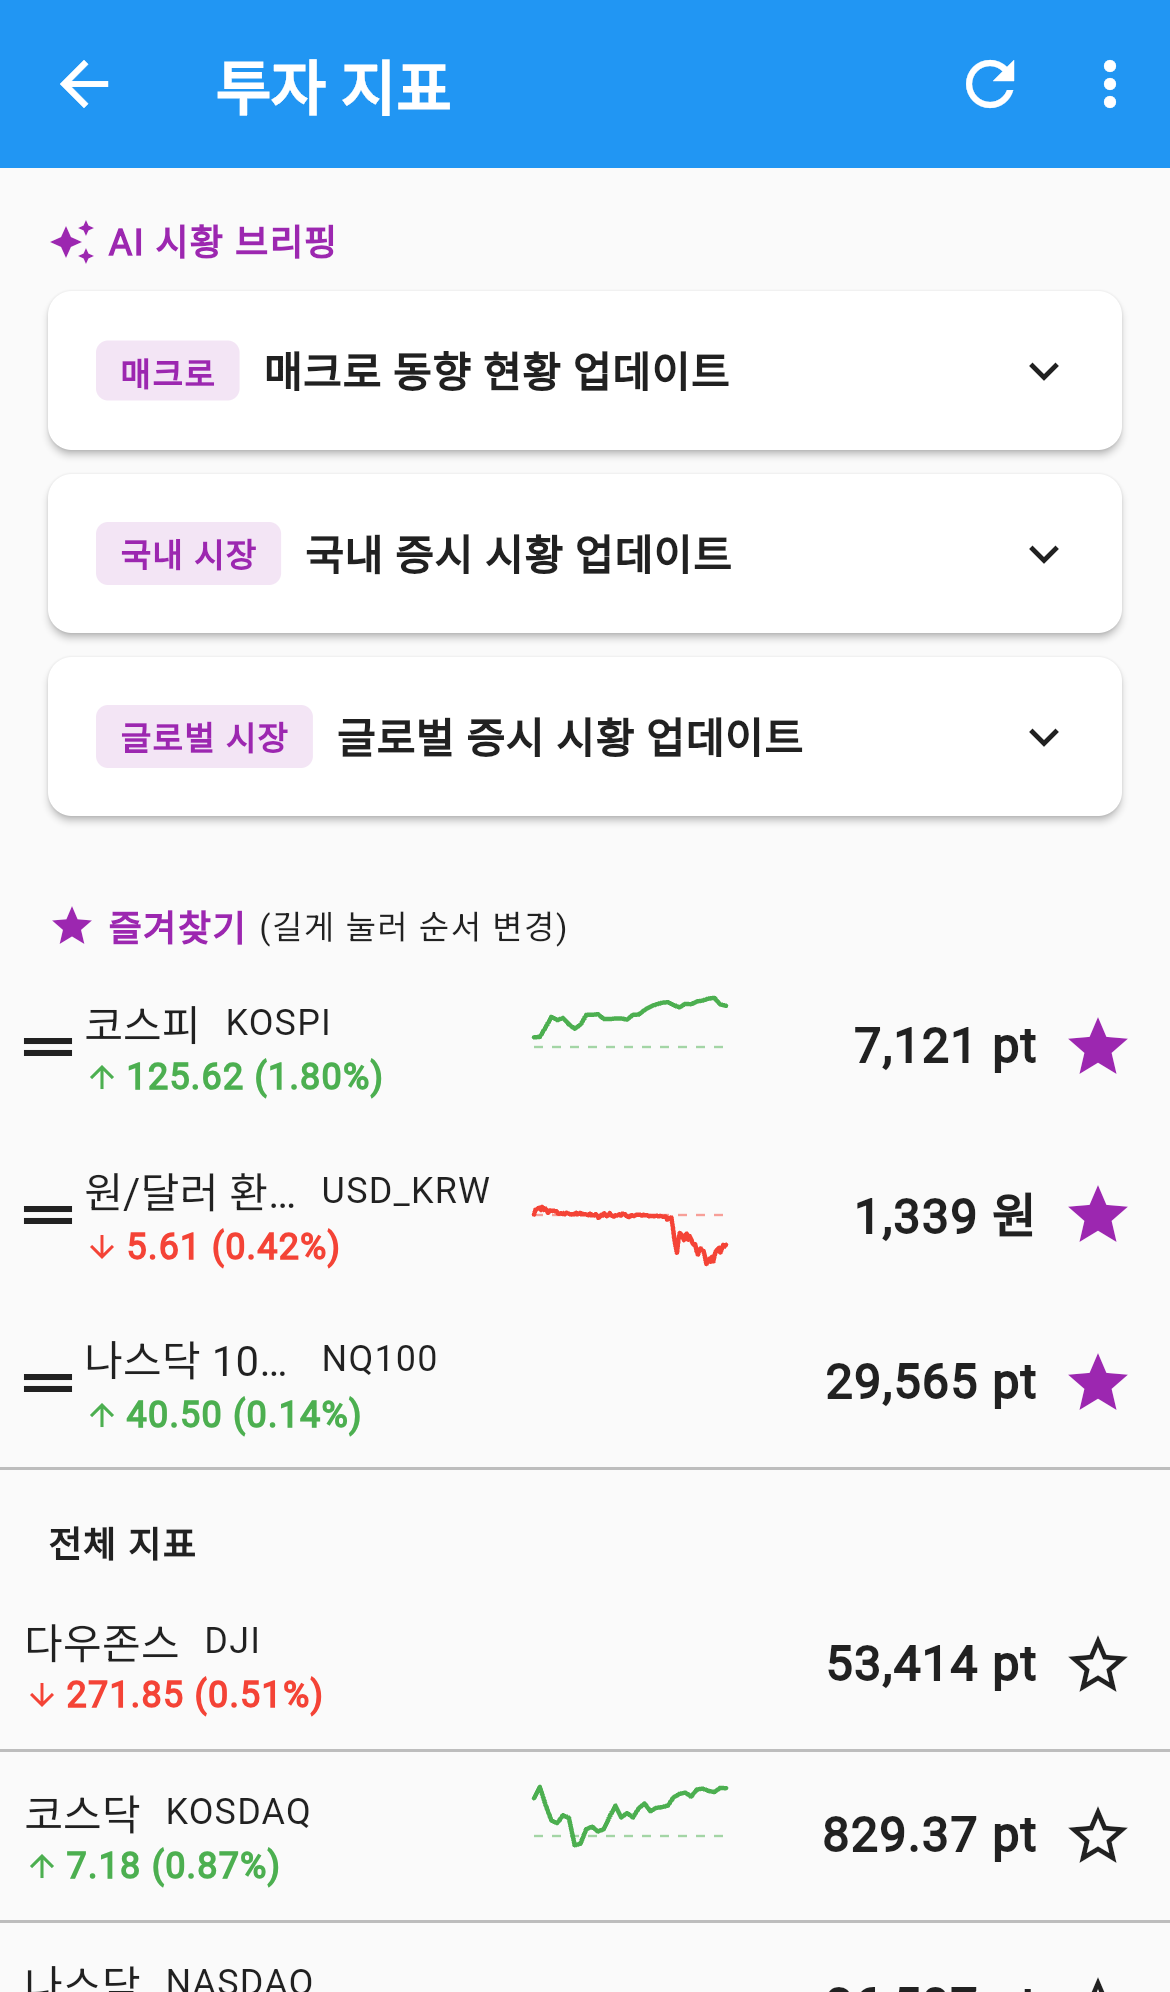
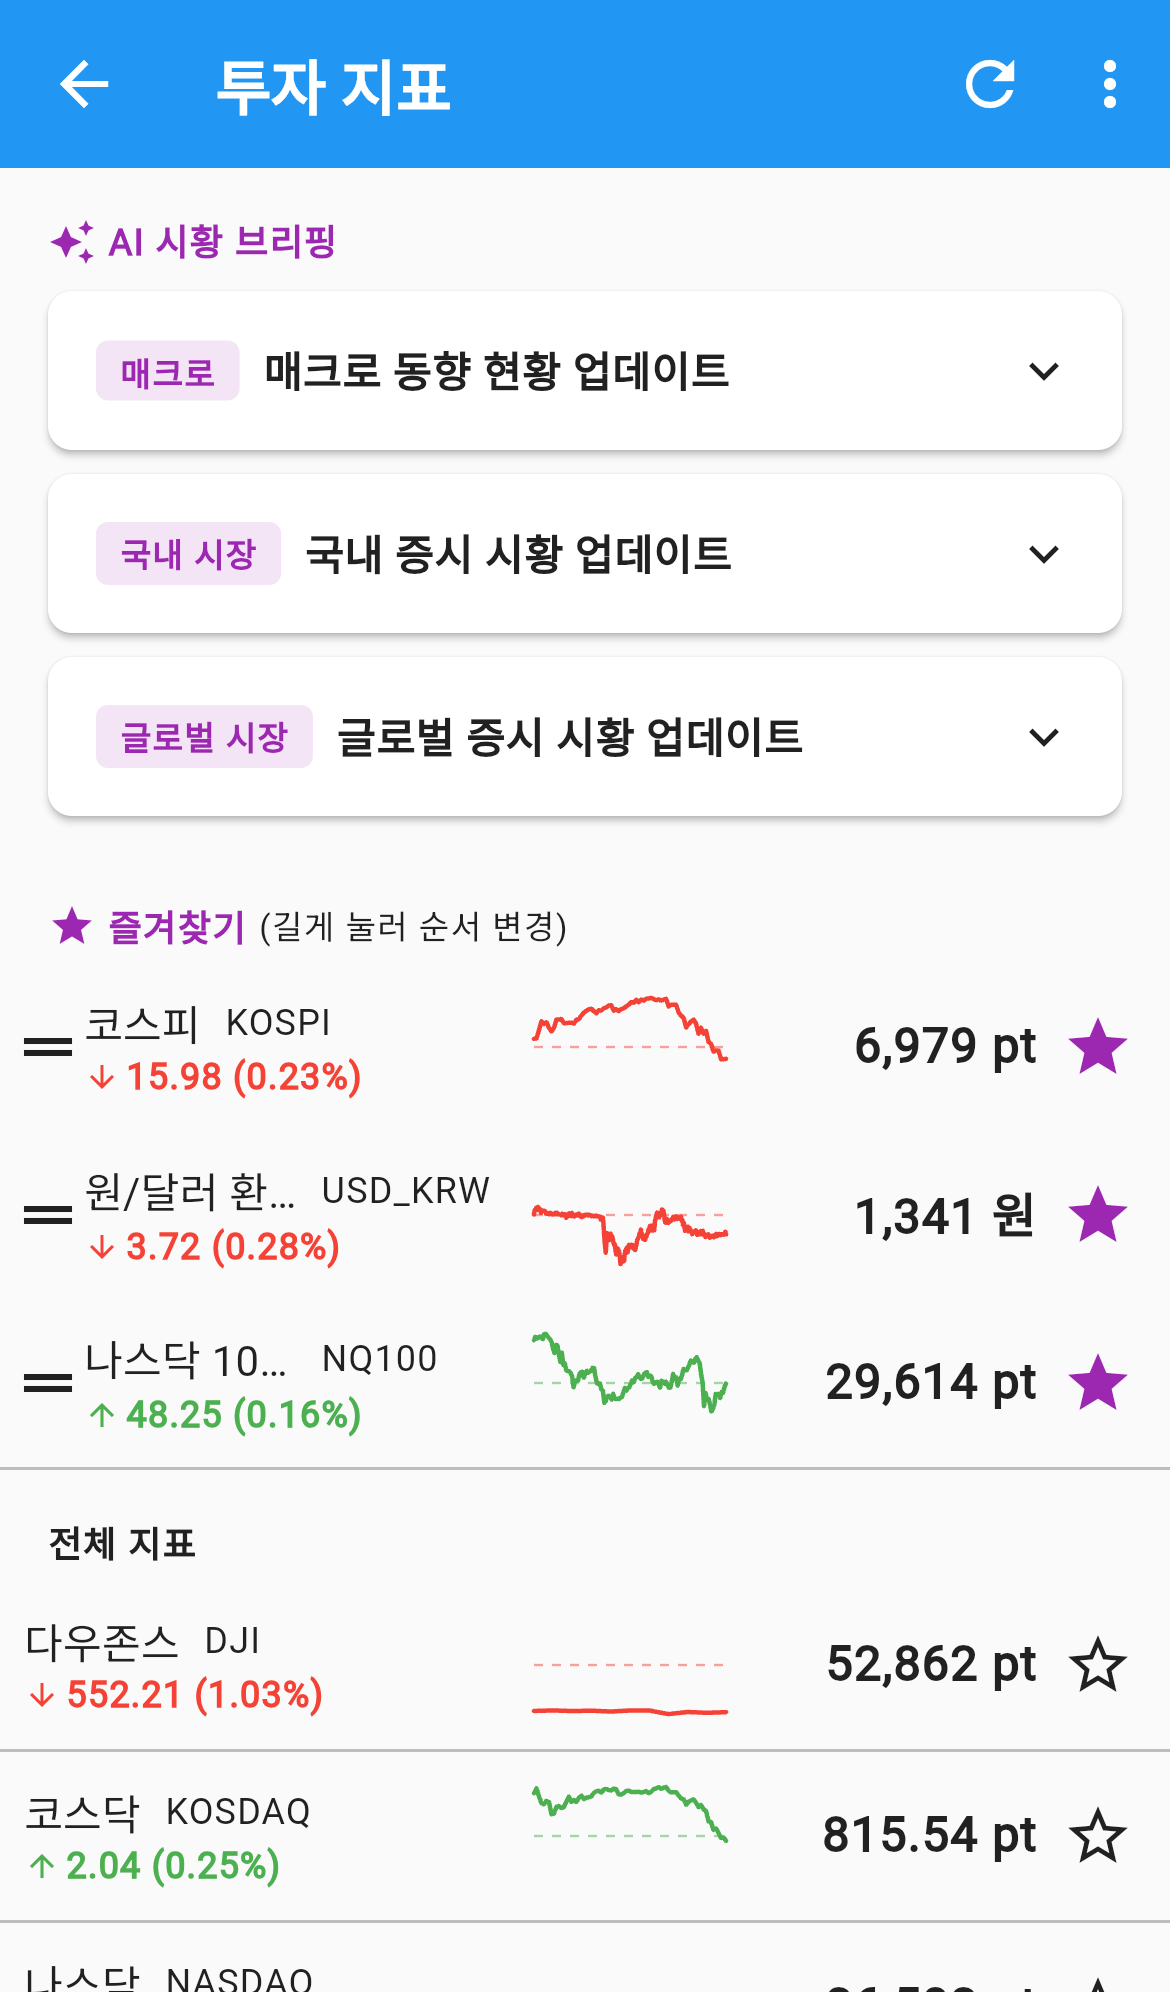
투자 지표 매뉴얼에 AI 시황 브리핑 펼친 화면 추가
프로덕션에서 브리핑 카드를 펼쳐 찍었습니다. 접힌 상태만으로는 제목 세 줄만
보여서, 이 기능이 실제로 무엇을 해주는지 드러나지 않았습니다. 펼친 화면에는
지수 등락뿐 아니라 왜 그렇게 움직였는지까지 문장으로 정리된 게 보입니다.

스크린샷 번호를 다시 매겼습니다 (02-ai-briefing 삽입, 이후 한 칸씩 밀림).

매크로 카드는 본문이 "죄송합니다. 요청을 처리하는 중에 문제가 발생했습니다."로
저장돼 있어 국내 시장 카드를 폈습니다. 생성 실패 응답이 그대로 저장돼 사용자에게
노출되는 상태라 04-investment.md에 별도로 적어뒀습니다.

diff --git a/docs/manual/investment/index.md b/docs/manual/investment/index.md
@@ -2,8 +2,8 @@
 title: 투자 지표
 menu: investment
 order: 13
-updated: 2026-09-08
-screenshots: 6
+updated: 2026-09-09
+screenshots: 7
 ---
 
 # 투자 지표
@@ -27,7 +27,7 @@ screenshots: 6
 
 | 영역 | 설명 |
 |---|---|
-| **✨ AI 시황 브리핑** | 그날 시장 요약 카드 (아래에서 자세히) |
+| **✨ AI 시황 브리핑** | 그날 시장을 요약한 카드 세 장 (아래에서 자세히) |
 | **⭐ 즐겨찾기** | 별을 채운 지표가 맨 위에 모입니다. 길게 눌러 순서를 바꿉니다 |
 | **전체 지표** | 나머지 지표가 정해진 순서로 나옵니다 |
 
@@ -54,7 +54,7 @@ screenshots: 6
 
 ## AI 시황 브리핑
 
-목록 맨 위에 **AI 시황 브리핑** 카드가 나옵니다(위 화면 참고). 그날 시장을 세 갈래로 요약해 줍니다.
+목록 맨 위에 **AI 시황 브리핑** 카드가 나옵니다. 그날 시장을 세 갈래로 요약해 줍니다.
 
 | 딱지 | 내용 |
 |---|---|
@@ -62,8 +62,17 @@ screenshots: 6
 | **국내 시장** | 코스피·코스닥 등 국내 증시 |
 | **글로벌 시장** | 나스닥·S&P 500 등 해외 증시 |
 
-카드에는 한 줄 제목만 보입니다. **카드를 누르면 펼쳐져** 자세한 내용과
-`업데이트: 9/8 07:30` 같은 갱신 시각이 나옵니다. 다시 누르면 접힙니다.
+접혀 있을 때는 한 줄 제목만 보입니다. **카드를 누르면 펼쳐집니다.**
+
+![AI 시황 브리핑 펼친 화면](screenshots/02-ai-briefing.png)
+*브리핑 카드를 누르면 펼쳐져 본문과 갱신 시각이 나옵니다*
+
+지수 등락뿐 아니라 **왜 그렇게 움직였는지**까지 문장으로 정리해 줍니다.
+"코스피는 15.98포인트 하락… 외국인과 기관이 대형주를 일부 매도하면서" 처럼요.
+환율·국고채 금리 같은 관련 지표도 함께 짚어줍니다.
+
+본문 맨 아래에 `업데이트: 9/9 07:30` 형태로 **언제 만들어진 브리핑인지** 나옵니다.
+카드를 다시 누르면 접힙니다.
 
 브리핑이 아직 만들어지지 않았으면 이 구역은 **아예 표시되지 않습니다.**
 
@@ -73,7 +82,7 @@ screenshots: 6
 
 주가지수뿐 아니라 환율·원자재·채권·암호화폐까지 함께 봅니다.
 
-![전체 지표 목록](screenshots/02-all.png)
+![전체 지표 목록](screenshots/03-all.png)
 *전체 지표 — 지수·환율·원자재·채권·암호화폐*
 
 | 분류 | 예 |
@@ -102,7 +111,7 @@ screenshots: 6
 
 목록에서 지표를 누릅니다.
 
-![지표 상세](screenshots/03-detail.png)
+![지표 상세](screenshots/04-detail.png)
 *지표 상세 — 현재가와 시세 추이*
 
 위쪽 카드에 **현재가**, **전일 대비 등락**, **전일 종가**가 있습니다.
@@ -112,7 +121,7 @@ screenshots: 6
 `시세 추이` 옆의 칩으로 차트 기간을 고릅니다. **1일 · 7일 · 30일 · 90일 · 180일 · 1년** 중에서
 고를 수 있고, 처음에는 30일이 선택돼 있습니다.
 
-![1년 차트](screenshots/04-chart-1y.png)
+![1년 차트](screenshots/05-chart-1y.png)
 *기간 칩으로 차트 범위를 바꿉니다 — 1년*
 
 차트를 **손가락으로 훑으면** 그 구간의 시작·끝 값과 등락률이 위에 나타납니다.
@@ -132,7 +141,7 @@ screenshots: 6
 
 `금 (국내)` 에는 다른 지표에 없는 줄이 하나 더 붙습니다.
 
-![금 국내 이격률](screenshots/05-spread.png)
+![금 국내 이격률](screenshots/06-spread.png)
 *금 (국내) — 국제 환산가 대비 이격률*
 
 **이격률**은 국내 금 시세가 **국제 금값을 원화로 바꾼 값과 얼마나 벌어져 있는지**를 백분율로 보여줍니다.
@@ -146,7 +155,7 @@ screenshots: 6
 
 차트를 아래로 내리면 **이격률 추이** 차트가 하나 더 있습니다.
 
-![이격률 추이 차트](screenshots/06-spread-chart.png)
+![이격률 추이 차트](screenshots/07-spread-chart.png)
 *이격률 추이 — 0% 기준선 위아래로 프리미엄·디스카운트*
 
 - **0% 선 위**로 올라가 있으면 그 시점에 국내가 더 비쌌다는 뜻(프리미엄)

diff --git a/docs/features/04-investment.md b/docs/features/04-investment.md
@@ -28,6 +28,11 @@
   - 카드를 탭하면 펼쳐져 본문과 갱신 시각이 나옵니다
   - 세 값이 모두 null이면 섹션을 그리지 않습니다.
     **프로덕션은 정상 동작**하고, 개발 서버만 전부 null이라 스크린샷에 안 잡힙니다
+- ⚠ **매크로 브리핑 본문이 오류 메시지로 저장돼 있습니다** (2026-09-09 프로덕션 확인)
+  - `GET /ai/market-briefing`의 `macro.content`가
+    `죄송합니다. 요청을 처리하는 중에 문제가 발생했습니다.` 입니다
+  - 국내 시장·글로벌 시장은 정상입니다. 생성에 실패한 응답이 그대로 저장돼
+    사용자에게 노출되는 상태로, 생성 실패 시 저장하지 않도록 막는 편이 좋습니다
 - ✅ 첫 진입 코치마크 (_investment_indicators_onboarding)
 
 ## 제공 지표

diff --git a/ROADMAP.md b/ROADMAP.md
@@ -119,6 +119,13 @@
 
 ## 📈 최근 완료된 기능
 
+### 2026-09-09
+- ✅ **투자 지표 매뉴얼에 AI 시황 브리핑 화면 추가** (7샷)
+  - 프로덕션에서 브리핑 카드를 펼친 화면을 찍어, 지수 등락뿐 아니라
+    "왜 그렇게 움직였는지"까지 요약해 준다는 점이 드러나게 했습니다
+  - 매크로 카드는 본문이 오류 메시지로 저장돼 있어 국내 시장 카드를 폈습니다
+    (별도 이슈로 04-investment.md에 기록)
+
 ### 2026-09-08
 - ✅ **구독 사용자 매뉴얼** ([docs/manual/subscription/](docs/manual/subscription/))
   - 2샷 — 더보기 탭 진입 경로(웹), 구독 관리 화면(실기기 캡처)
